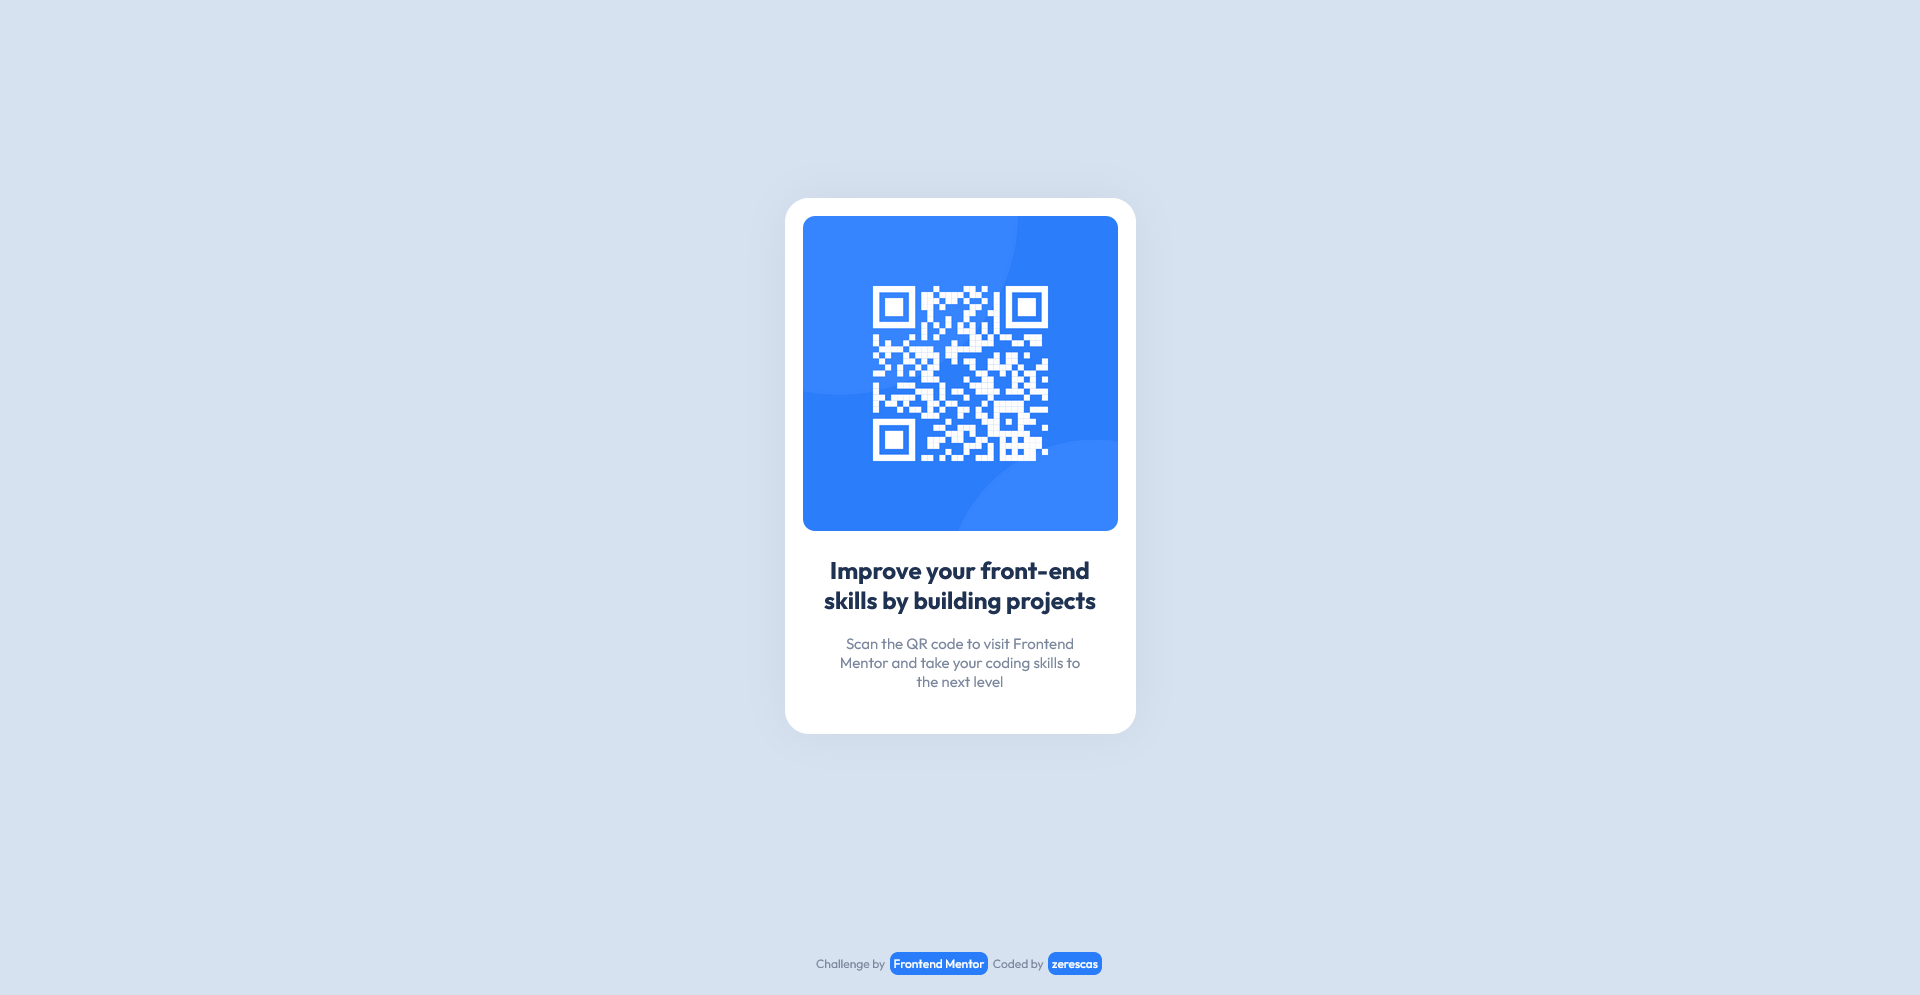
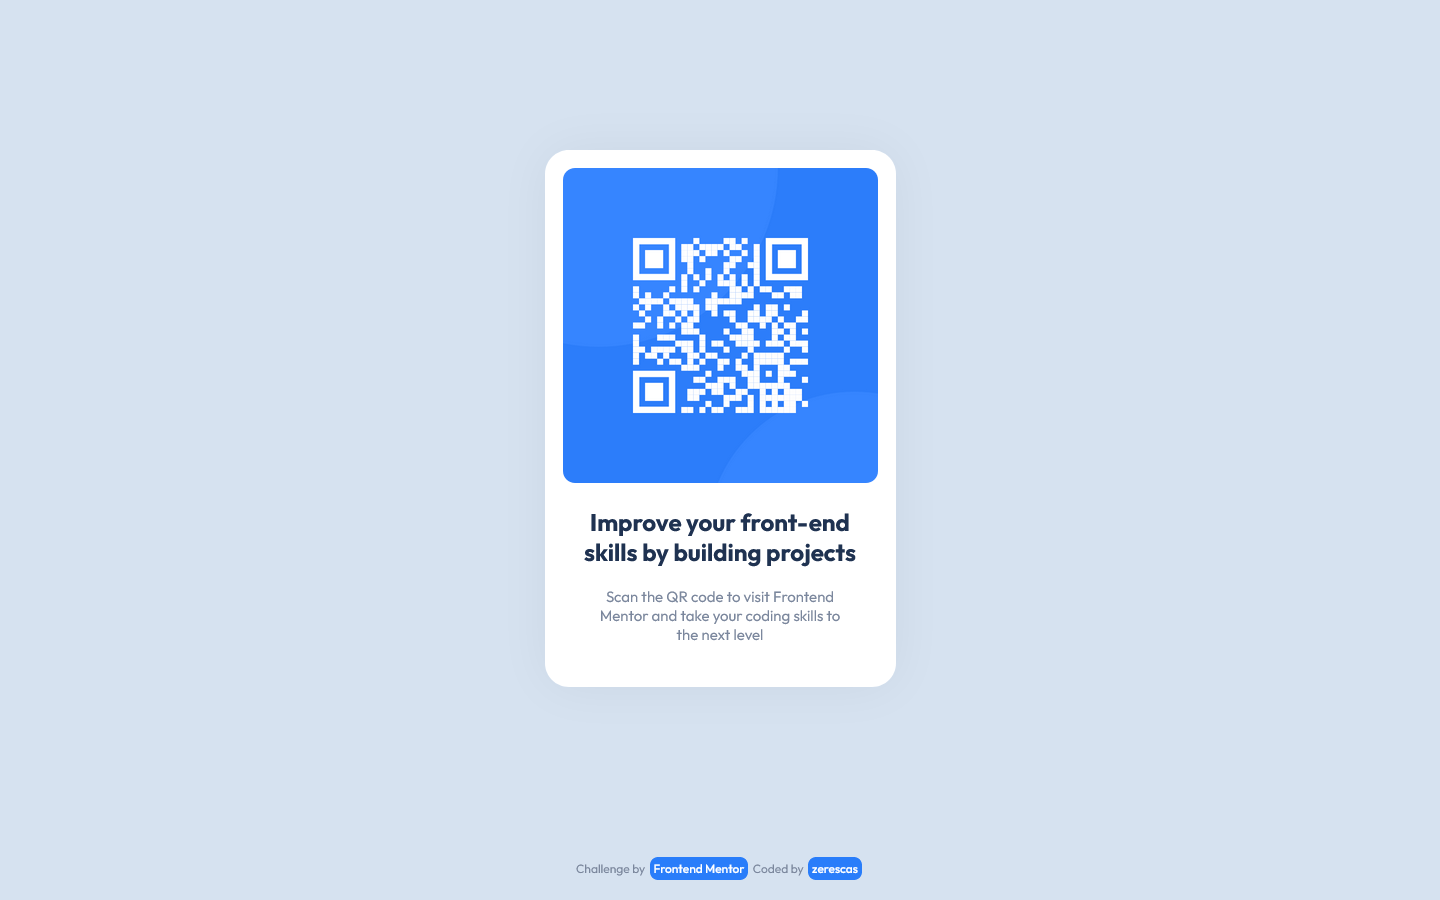
Update README.md and webpage screenshot

Changed region(s): [[0.375, 0.1556, 0.625, 0.7778], [0.4062, 0.9333, 0.5938, 0.9956]]

diff --git a/README.md b/README.md
@@ -36,7 +36,7 @@ This is a solution to the [QR code component challenge on Frontend Mentor](https
 This is one of the first pages made myself looking only on a design. Troubles were appearing already on beginning. Which CSS properties should I use to complete the challenge with a preferably normal solution. Maybe I should use a display tag?
 
 ```css
-.elem {
+.section {
   display: absolute;
   right: 50%;
   bottom: 50%;
@@ -44,7 +44,18 @@ This is one of the first pages made myself looking only on a design. Troubles we
 }
 ```
 
-It center an element but break HTML flow. It works with only one element on a webpage but what if it will be more elements on a webpage. After some time I realized that I should better to learn about flexboxes and use it. So I end up with a such structure:
+It looks fine with one section on a webpage but with a footer it becomes more uncontrollable and messy set of CSS properties. 
+
+```css
+.footer {
+  display: absolute;
+  left: 0;
+  bottom: 0;
+  width: 100%;
+}
+```
+
+Some time later I learned about flexboxes and want use it. So I end up with a such structure:
 
 ```html
 <div class="page">
